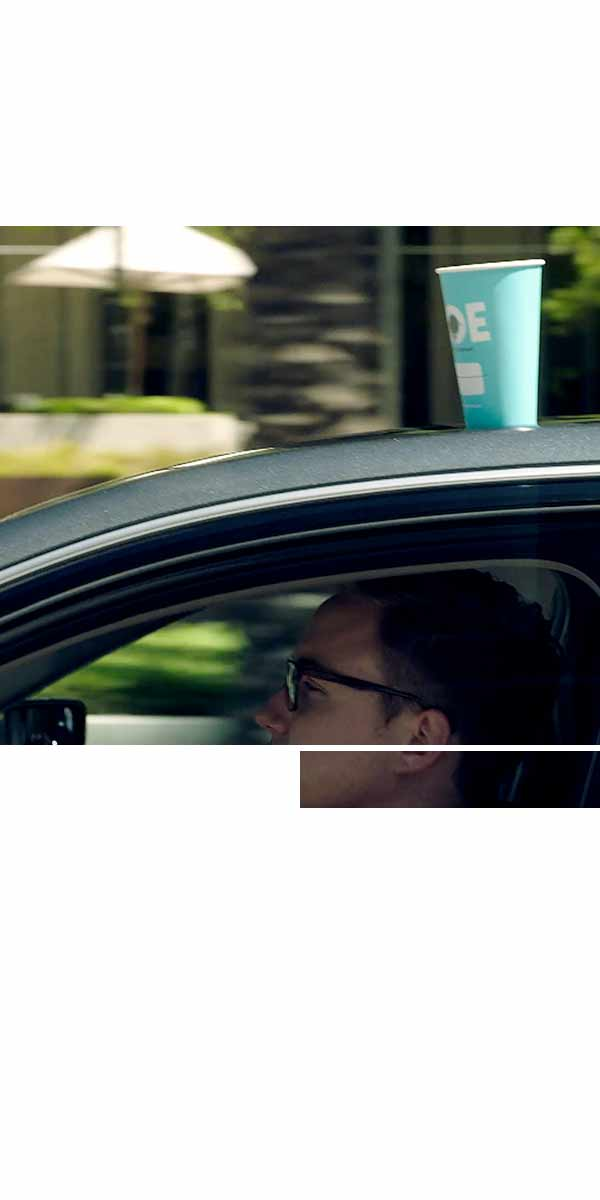
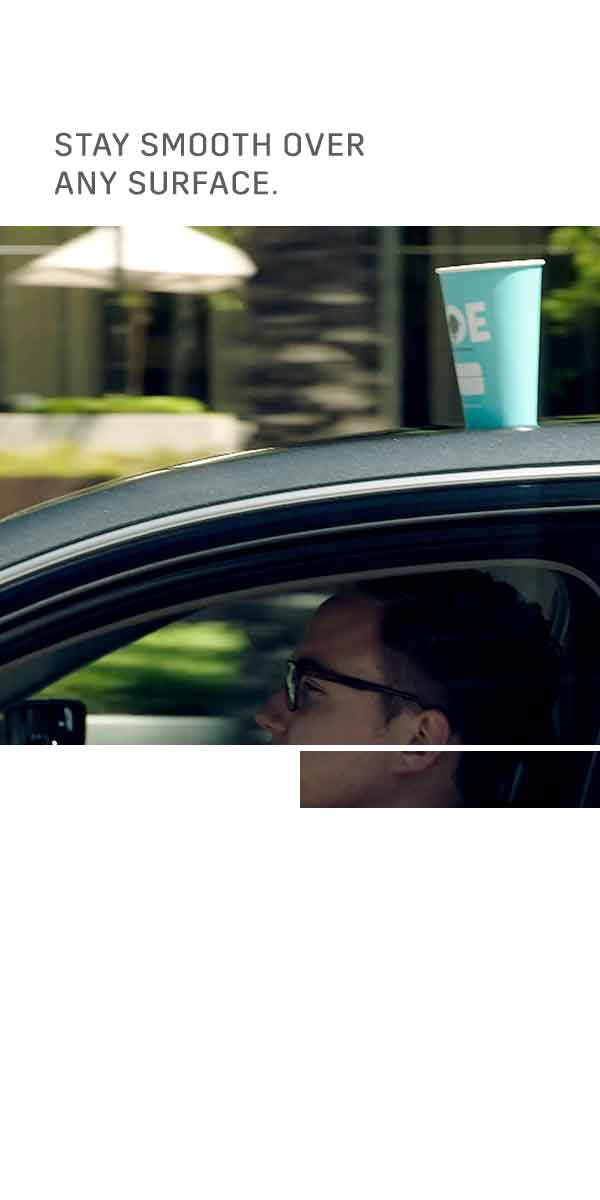
Added the new animation... The statics still need to be done though

Changed region(s): [[0.09, 0.0925, 0.45, 0.185], [0.48, 0.0925, 0.6, 0.1542]]

diff --git a/app/rich/templates/css/970x250.scss b/app/rich/templates/css/970x250.scss
@@ -14,16 +14,45 @@ html, body {
         }
 
         .backgrounds {
+
             .background1 {
                 z-index: 1;
             }
             .background2 {
                 z-index: 2;
             }
-            .background3 {
-                z-index: 3;
-            }
 
+            img {
+                width: {width}px;
+            }
+        }
+        .cta {
+            cursor: pointer;
+
+            .cta_normal,.cta_hover {
+                width: {width}px;
+            }
+        }
+
+        .wipe {
+			width: 0;
+
+            .wipe-line {
+				top: 0px;
+				height: {height}px;
+                width: 2px;
+			}
+			
+			.wipe-line::before {
+                position: absolute;
+                content: ' ';
+                $gradientWidth: 9px;
+                left: -$gradientWidth;
+                width: $gradientWidth;
+                height: {height}px;
+                /* Permalink - use to edit and share this gradient: http://colorzilla.com/gradient-editor/#ffffff+0,ffffff+100&0+0,1+100 */
+                background: linear-gradient(to right,  rgba(255,255,255,0) 0%,rgba(255,255,255,1) 100%);
+            }
             img {
                 width: {width}px;
             }
@@ -34,14 +63,6 @@ html, body {
             width: {width}px;
         }
 
-        .cta {
-            z-index: 5;
-            cursor: pointer;
-
-            .cta_normal,.cta_hover {
-                width: {width}px;
-            }
-        }
 
         .copy {
             .item {

diff --git a/app/rich/templates/css/global.scss b/app/rich/templates/css/global.scss
@@ -70,24 +70,28 @@ table {
             }
         }
 
-        .copy-event {
+
+        .wipe {
+            width: inherit;
+            height: inherit;
             position: absolute;
+            z-index: 4;
             overflow: hidden;
 
-            .vertical-line {
+            .wipe-line {
                 position: absolute;
-                height: 100%;
-                width: 2px;
-                background: #8a1529;
-                z-index: 2;
+                background: #b5a36a;
+                z-index: 3;
             }
 
-            .copy-event-img {
+            img {
                 position: absolute;
-                width: 100%;
-                z-index: 1;
+                top: 0;
+                left: 0;
             }
         }
+
+       
 
         .backgrounds {
             z-index: 1;
@@ -98,17 +102,7 @@ table {
             z-index: 3;
         }
 
-        .masks {
-            position: absolute;
-            z-index: 3;
-
-            > div {
-                height: inherit;
-                opacity: 0.8;
-                float: left;
-                background: white;
-            }
-        }
+        
 
         #border {
             z-index: 9;

diff --git a/app/rich/templates/js/animations/en/970x250.js b/app/rich/templates/js/animations/en/970x250.js
@@ -1,15 +1,18 @@
 var easeIn = Power1.easeIn;
 var easeOut = Power1.easeOut;
 var timeline = new TimelineLite({onComplete: onComplete});
-        timeline.add('frame1')
-            .to('.copy1', 1, {opacity: 1})        
-            .addDelay(2.7, 'frame2')
-        timeline.add('frame2')
-            .to('.background2', 1, {opacity:1})
-            .to('.copy1', 0.5, {opacity: 0},'-=1')
-            .to('.copy2', 0.5, {opacity: 1},'-=1')
-            .addDelay(2, 'frame3')
-        timeline.add('frame3')
-            .to('.background3', 0.5, {opacity:1})
-            .to('.cta', 1, {opacity: 1},'-=0.5')
-        timeline.add('frame4')
+    timeline.add('frame1')
+        .to('.copy1', 1, {opacity: 1})
+		.addDelay(2, 'frame2')
+    timeline.add('frame2')
+        .to('.background2', 1, {opacity: 1})
+        .to('.background1', 0, { opacity: 0 })
+		.addDelay(2.7, 'frame3')
+    timeline.add('frame3')
+        .to('.wipe', 0.8, { width: 810 })
+        .to('.wipe-line', 0.8, { left: 810 }, '-=0.8')
+        .to('.wipe-line', 0.3, { left: 820 })
+		.addDelay(1, 'frame4')
+    timeline.add('frame4')
+        .to('.cta', 1, { opacity: 1 })
+    timeline.add('frame5')

diff --git a/app/rich/templates/js/animations/en/300x600.js b/app/rich/templates/js/animations/en/300x600.js
@@ -1,15 +1,19 @@
+
 var easeIn = Power1.easeIn;
 var easeOut = Power1.easeOut;
 var timeline = new TimelineLite({onComplete: onComplete});
         timeline.add('frame1')
             .to('.copy1', 1, {opacity: 1})        
-            .addDelay(2.7, 'frame2')
+            .addDelay(2, 'frame2')
         timeline.add('frame2')
-            .to('.background2', 1, {opacity:1})
-            .to('.copy1', 0.5, {opacity: 0},'-=1')
-            .to('.copy2', 0.5, {opacity: 1},'-=1')
-            .addDelay(2, 'frame3')
+            .to('.background2', 1, {opacity: 1})
+            .to('.background1', 0, { opacity: 0 })
+            .addDelay(2.7, 'frame3')
         timeline.add('frame3')
-            .to('.background3', 0.5, {opacity:1})
-            .to('.cta', 1, {opacity: 1},'-=0.5')
+            .to('.wipe', 0.5, { width: 300 })
+            .to('.wipe-line', 0.5, { left: 300 }, '-=0.5')
+            .to('.wipe-line', 0.3, { left: 310 })
+            .addDelay(1, 'frame3')
         timeline.add('frame4')
+            .to('.cta', 1, {opacity: 1})
+        timeline.add('frame5')

diff --git a/app/rich/templates/css/300x600.scss b/app/rich/templates/css/300x600.scss
@@ -20,8 +20,33 @@ html, body {
             .background2 {
                 z-index: 2;
             }
-            .background3 {
+
+
+            img {
+                width: {width}px;
+            }
+        }
+
+        .wipe {
+            width: 0;
+            z-index: 4;
+
+            .wipe-line {
+				top: 113px;
+				height: 260px;
+                width: 2px;
                 z-index: 3;
+			}
+			
+			.wipe-line::before {
+                position: absolute;
+                content: ' ';
+                $gradientWidth: 9px;
+                left: -$gradientWidth;
+                width: $gradientWidth;
+                height: 260px;
+                /* Permalink - use to edit and share this gradient: http://colorzilla.com/gradient-editor/#ffffff+0,ffffff+100&0+0,1+100 */
+                background: linear-gradient(to right,  rgba(255,255,255,0) 0%,rgba(255,255,255,1) 100%);
             }
 
             img {

diff --git a/app/rich/templates/html/en/300x600.html b/app/rich/templates/html/en/300x600.html
@@ -1,16 +1,16 @@
 <div class="backgrounds">
-    <!-- <div class="masks">
-        <div class="mask1"></div>
-        <div class="mask2"></div>
-    </div> -->
     <img class="background1 item show" src="background1.jpg">
     <img class="background2 item" src="background2.jpg">
-    <img class="background3 item" src="background3.jpg">
 </div>
+
 
 <div class="copy">
         <img class="copy1 item show" src="copy1.png">
-        <img class="copy2 item" src="copy2.png">
+</div>
+
+<div class="wipe">
+    <div class="wipe-line"></div>
+    <img class="background3" src="background3.jpg">
 </div>
 
 <div class="cta item">

diff --git a/app/rich/templates/html/en/970x250.html b/app/rich/templates/html/en/970x250.html
@@ -1,13 +1,14 @@
 <div class="backgrounds">
     <img class="background1 item show" src="background1.jpg">
     <img class="background2 item" src="background2.jpg">
-    <img class="background3 item" src="background3.jpg">
-    <!-- <div class="masks"><div class="mask1"></div></div> -->
 </div>
 
+<div class="wipe">
+    <div class="wipe-line"></div>
+    <img class="background3" src="background3.jpg">
+</div>
 <div class="copy">
         <img class="copy1 item" src="copy1.png">
-        <img class="copy2 item" src="copy2.png">
 </div>
 
 <div class="cta item">
